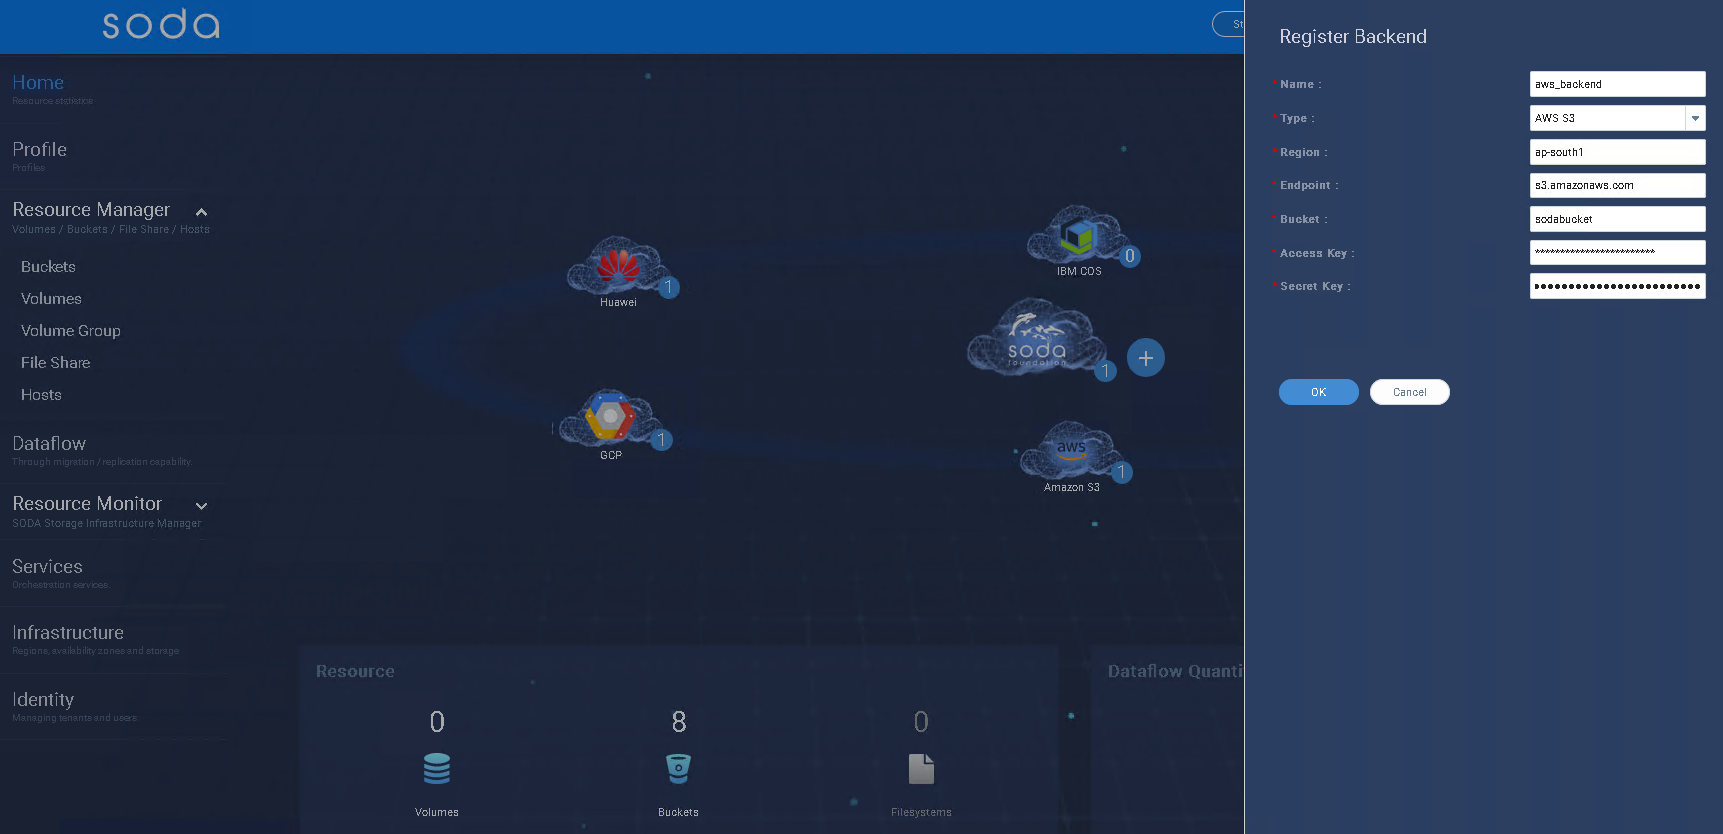
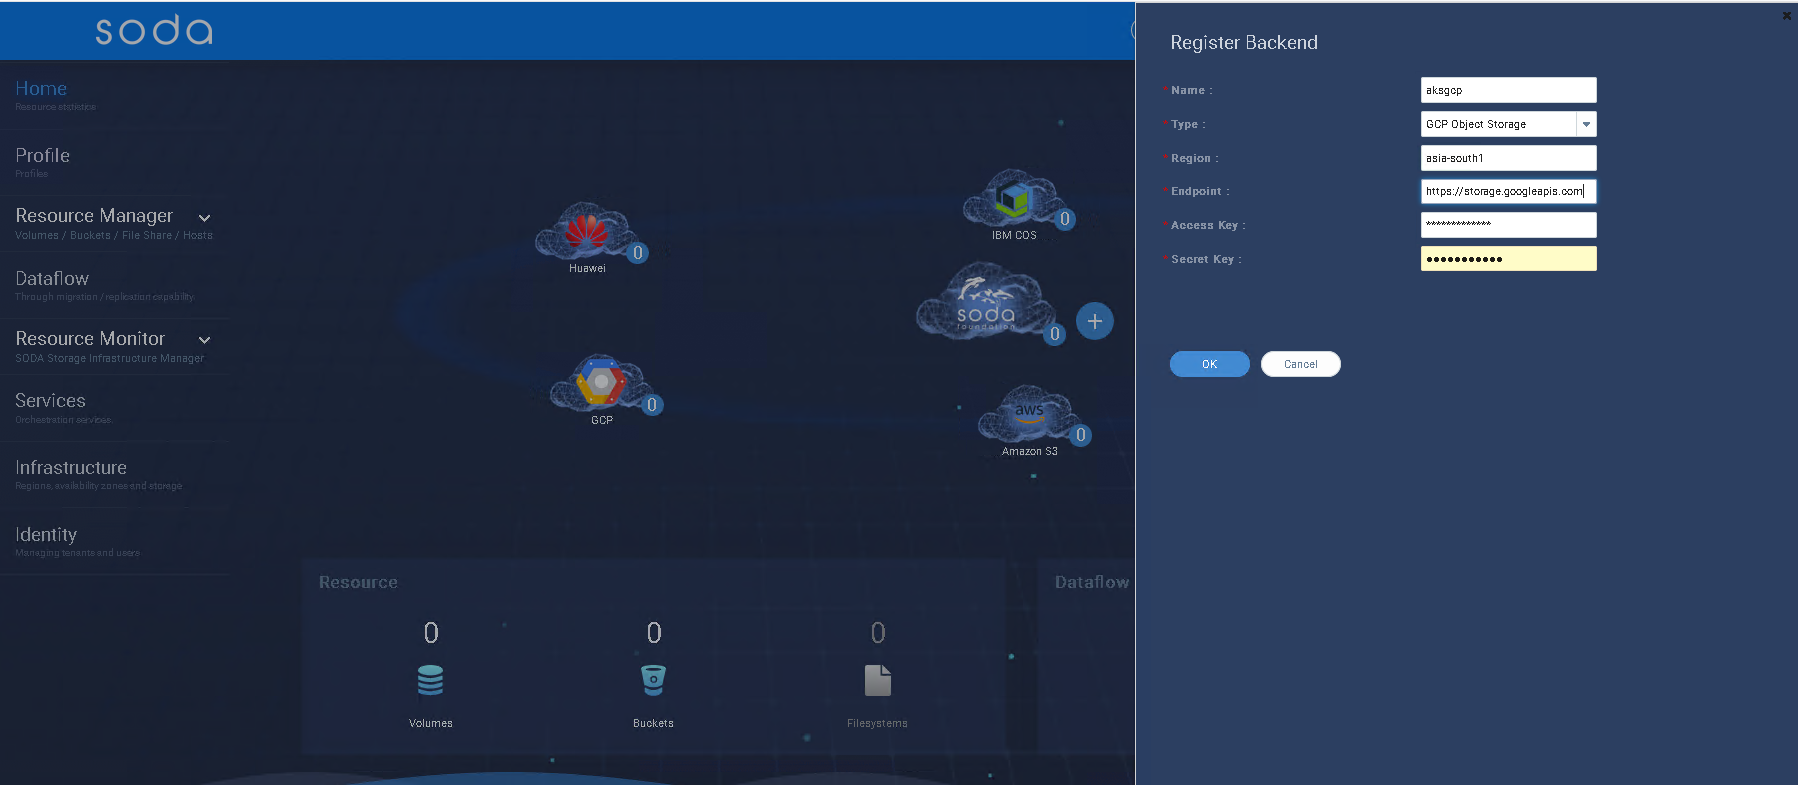
Update for new register backend image for Data Archival to cloud (#153)
* Update for new register backend image

* Adding support metrics for multi-cloud. Minor typo change for nbp

* Adding SONY ODA

* Added some formatting changes

* iCorrecting link

* correcting link

diff --git a/content/support-matrix/multi-cloud/_index.md b/content/support-matrix/multi-cloud/_index.md
@@ -1,0 +1,73 @@
+---
+title: Multi-cloud support matrix
+menuTitle: Multi-cloud
+description: "Matrix data for supported cloud vendors and features"
+weight: 15
+disableToc: false
+tags: ["support matrix", "multi-cloud", "cloud vendors"] 
+---
+This section provides the matrix about the supported cloud providers and the features for SODA multi-cloud.
+
+{{%children style="h3" description="true" %}}  
+
+<table>
+    <thead>
+       <tr>
+          <th>Vendor</th>
+          <th>Object</th>
+          <th>File</th>
+          <th>Block</th>
+       </tr>
+    </thead>
+    <tbody>
+       <tr>
+          <td> AWS</td>
+          <td> Y </td>
+          <td> Y </td>
+          <td> Y </td>
+       </tr>
+       <tr>
+          <td> Azure</td>
+          <td> Y </td>
+          <td> Y </td>
+          <td> N </td>
+       </tr>
+       <tr>
+          <td> GCP</td>
+          <td> Y </td>
+          <td> Y </td>
+          <td> N </td>
+       </tr>
+       <tr>
+          <td> Huawei</td>
+          <td> Y </td>
+          <td> Y </td>
+          <td> Y </td>
+       </tr>
+       <tr>
+          <td> IBM COS</td>
+          <td> Y </td>
+          <td> N</td>
+          <td> N </td>
+       </tr>
+       <tr>
+          <td> Ceph S3</td>
+          <td> Y </td>
+          <td> N </td>
+          <td> N </td>
+       </tr>
+       <tr>
+          <td> YiG</td>
+          <td> Y </td>
+          <td> N </td>
+          <td> N </td>
+       </tr>
+       <tr>
+          <td> Alibaba</td>
+          <td> Y </td>
+          <td> N </td>
+          <td> N </td>
+       </tr>
+    </tbody>
+</table>
+

diff --git a/content/guides/user-guides/multi-cloud/object-archival-restore/_index.md b/content/guides/user-guides/multi-cloud/object-archival-restore/_index.md
@@ -19,7 +19,7 @@ This guide shows how to archive objects into Cloud object storage and restore th
 To refer the API specs, please check [Cloud Object Archival API Specs](https://github.com/sodafoundation/multi-cloud/blob/master/openapi-spec/swagger.yaml)
 
 {{% notice note %}}
- Currently this feature is available only for AWS cloud
+ Currently this feature is available only for AWS, Azure and GCP cloud as backend and SONY-ODA as on-premise Cold storage
 {{% /notice %}}
 
 ## Installing SODA multi-cloud
@@ -33,8 +33,9 @@ Or Check the developer guide [multi-cloud local cluster installation through rep
 	admin/opensds@123 
 
 ## Pre-requisite
-* Cloud Backend is registered. [How to register a cloud backend](#How to register a Cloud backend)
-* multi-cloud Bucket is created. [How to create a multi-cloud bucket](#How to create a multi-cloud bucket)
+* Cloud Backend is registered. [How to register a cloud backend](/guides/user-guides/multi-cloud/object-archival-restore/#how-to-register-a-cloud-backend)
+* multi-cloud Bucket is created. [How to create a multi-cloud bucket](/guides/user-guides/multi-cloud/object-archival-restore/#how-to-create-a-multi-cloud-bucket)
+
 <a name="How to register a Cloud backend"></a>
 #### How to register a Cloud backend
 ![multi-cloud U	I image  ](soda_home.png?raw=true)

diff --git a/content/support-matrix/nbp/_index.md b/content/support-matrix/nbp/_index.md
@@ -2,10 +2,10 @@
 title: NBP
 menuTitle: NBP
 description: "All user guides for the North Bound Plugin(NBP) project can be found here"
-weight: 10
+weight: 15
 disableToc: false
-tags: ["user guide", "delfin", "dashboard"] 
+tags: ["user guide", "nbp"]
 ---
 This section provides Support Matrix for various features from the NBP project of SODA Foundation. If you are interested to develop/port, please refer the developer guides or contact us through any of the technical channels.
 
-{{%children style="h3" description="true" %}}  
+{{%children style="h3" description="true" %}}
